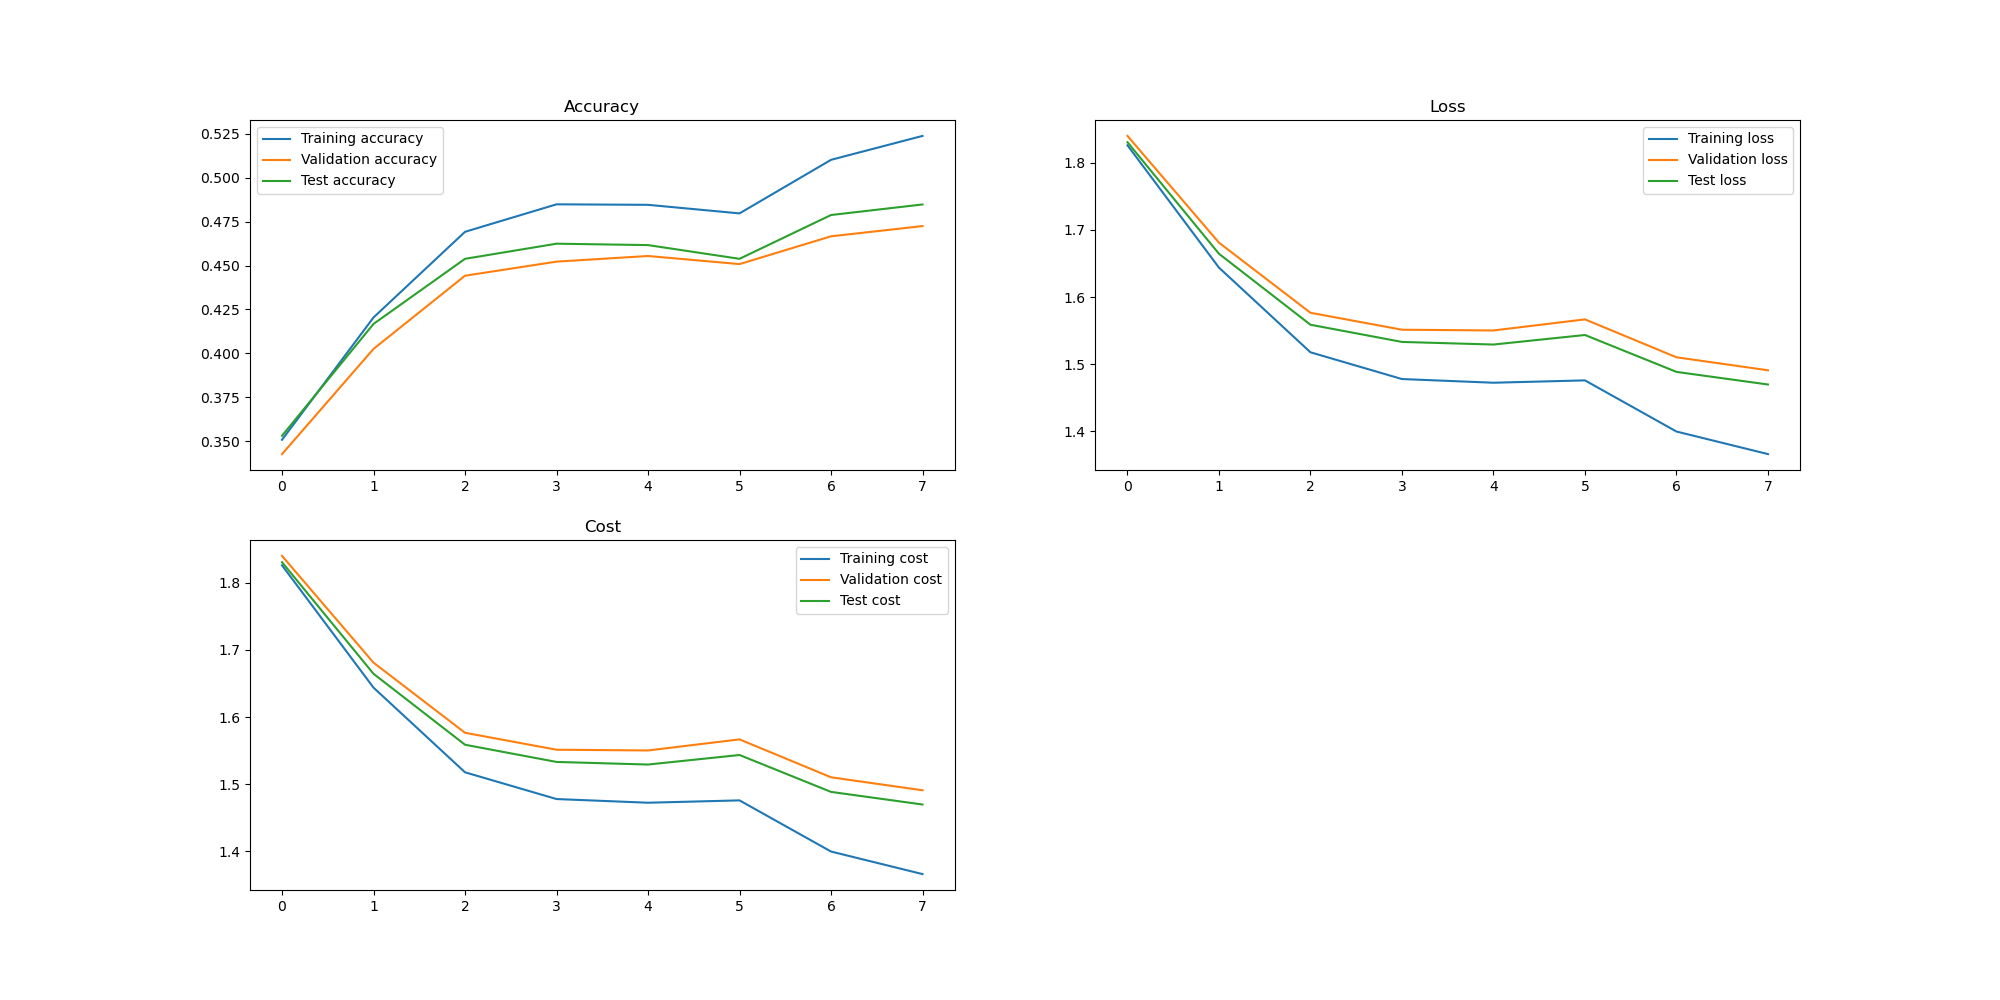
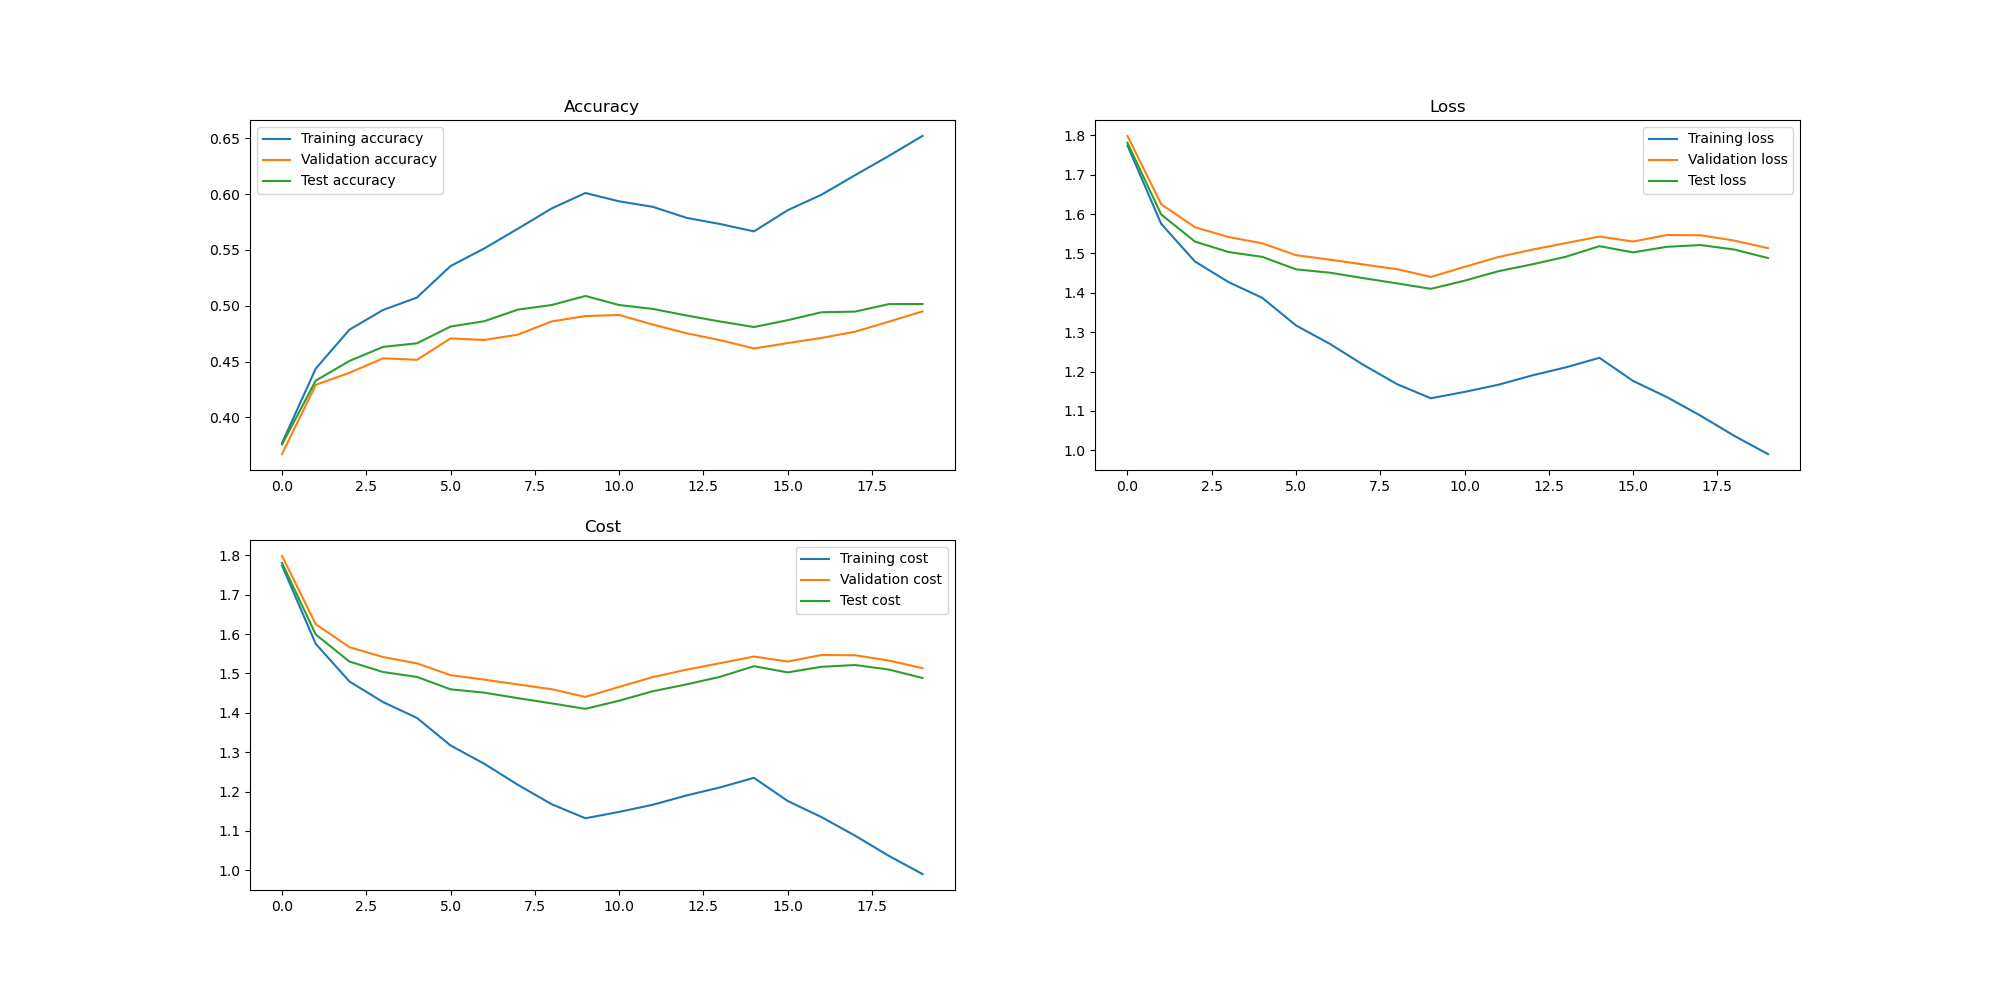
Working k depth network now
Everything seems to be working. Apply batch normalisation a

diff --git a/Labs/Lab 3/lab3.py b/Labs/Lab 3/lab3.py
@@ -255,7 +255,7 @@ def update_weights_bias(weights, bias, grad_weights, grad_bias, learning_rate):
 def sgd_minibatch(data_train, data_val, data_test, weights, bias, labels_train, labels_val, labels_test, learning_rate, reguliser, batch_size, cycles, do_plot = False, do_batchNorm = False, name_of_file=""):
   eta_min = 1e-5
   eta_max = 1e-1
-  step_size = (data_train.shape[1] / batch_size)*2
+  step_size = (data_train.shape[1] / batch_size)*5
   total_updates = 2 * step_size * cycles
   epochs = int(np.ceil(total_updates / (data_train.shape[1] / batch_size)))
   updates_per_epoch = int((data_train.shape[1] / batch_size))  # Number of updates per epoch
@@ -287,10 +287,10 @@ def sgd_minibatch(data_train, data_val, data_test, weights, bias, labels_train, 
       labels_batch = labels_train[:, start:end]
  
       # Relued layers and scores
-      layers, scores_list = forward_pass(data_batch, weights, bias)
+      layers, scores_list = forward_pass(data_batch, weights, bias, do_batchNorm=do_batchNorm)
 
       # Backpropagation
-      grad_weights, grad_bias = back_pass(layers, labels_batch, weights, 0, layers[-1], scores_list[-1], None, None, None, None, False)
+      grad_weights, grad_bias = back_pass(layers, labels_batch, weights, reguliser, layers[-1], scores_list[-1], None, None, None, None, do_batchNorm=do_batchNorm)
     
       # Update the weights and bias
       weights, bias = update_weights_bias(weights, bias, grad_weights, grad_bias, learning_rate)
@@ -300,17 +300,17 @@ def sgd_minibatch(data_train, data_val, data_test, weights, bias, labels_train, 
       learning_rate = cyclical_update(current_iteration, step_size, eta_min, eta_max)
        
     if do_plot:
-      train_loss.append(get_loss(data_train, labels_train, weights, bias, 0, forward_pass(data_train, weights, bias)[0][-1]))
-      vaidation_loss.append(get_loss(data_val, labels_val, weights, bias, 0, forward_pass(data_val, weights, bias)[0][-1]))
-      test_loss.append(get_loss(data_test, labels_test, weights, bias, 0, forward_pass(data_test, weights, bias)[0][-1]))
+      train_loss.append(get_loss(data_train, labels_train, weights, bias, reguliser, forward_pass(data_train, weights, bias, do_batchNorm=do_batchNorm)[0][-1]))
+      vaidation_loss.append(get_loss(data_val, labels_val, weights, bias, reguliser, forward_pass(data_val, weights, bias,do_batchNorm=do_batchNorm)[0][-1]))
+      test_loss.append(get_loss(data_test, labels_test, weights, bias, reguliser, forward_pass(data_test, weights, bias,do_batchNorm=do_batchNorm)[0][-1]))
 
       train_accuracy.append(compute_accuracy(data_train, labels_train, weights, bias))
       validation_accuracy.append(compute_accuracy(data_val, labels_val, weights, bias))
       test_accuracy.append(compute_accuracy(data_test, labels_test, weights, bias))
 
-      train_cost.append(compute_cost(data_train, labels_train, weights, bias, 0, forward_pass(data_train, weights, bias)[0][-1]))
-      validation_cost.append(compute_cost(data_val, labels_val, weights, bias, 0, forward_pass(data_val, weights, bias)[0][-1]))
-      test_cost.append(compute_cost(data_test, labels_test, weights, bias, 0, forward_pass(data_test, weights, bias)[0][-1]))
+      train_cost.append(compute_cost(data_train, labels_train, weights, bias, reguliser, forward_pass(data_train, weights, bias)[0][-1]))
+      validation_cost.append(compute_cost(data_val, labels_val, weights, bias, reguliser, forward_pass(data_val, weights, bias)[0][-1]))
+      test_cost.append(compute_cost(data_test, labels_test, weights, bias, reguliser, forward_pass(data_test, weights, bias)[0][-1]))
 
       step_list.append(epoch)
 
@@ -346,21 +346,35 @@ def do_plotting(train_loss, vaidation_loss, test_loss, train_accuracy, validatio
 
 def main():
   #Getting started
-  data_train, labels_train, data_val, labels_val, data_test, labels_test, labels = read_data(5000)
+  data_train, labels_train, data_val, labels_val, data_test, labels_test, labels = read_data(5000)  
 
   # Preprocessing
   data_train, data_val, data_test = normalise_all(data_train, data_val, data_test)
   labels_train, labels_val, labels_test = encode_all(labels_train, labels_val, labels_test)
 
   # Initialising the network
-  weights, bias = init_network(data_train, [50,50,10], he = False)
+  weights, bias = init_network(data_train, [50,50,50,10], he = False)
 
-  # Get the softmax of the last layer
-  probs = forward_pass(data_train, weights, bias)[0][-1]
-
-  # sgd_minibatch
-  weights, bias = sgd_minibatch(data_train, data_val, data_test, weights, bias, labels_train, labels_val, labels_test, 0.01, 0.001, 512, 2, do_plot = True, do_batchNorm = False, name_of_file="SGD_minibatch")
-
+  print("Size of the data_train: ", data_train.shape)
+ 
+  config = {
+    'data_train': data_train,
+    'data_val': data_val,
+    'data_test': data_test,
+    'weights': weights,
+    'bias': bias,
+    'labels_train': labels_train,
+    'labels_val': labels_val,
+    'labels_test': labels_test,
+    'learning_rate': 0.01,
+    'reguliser': 0,
+    'batch_size': 100,
+    'cycles': 2,
+    'do_plot': True,
+    'do_batchNorm': False,
+    'name_of_file': "SGD_minibatch"
+}
+  weights, bias = sgd_minibatch(**config)
 
 """
   # Get accuracy
